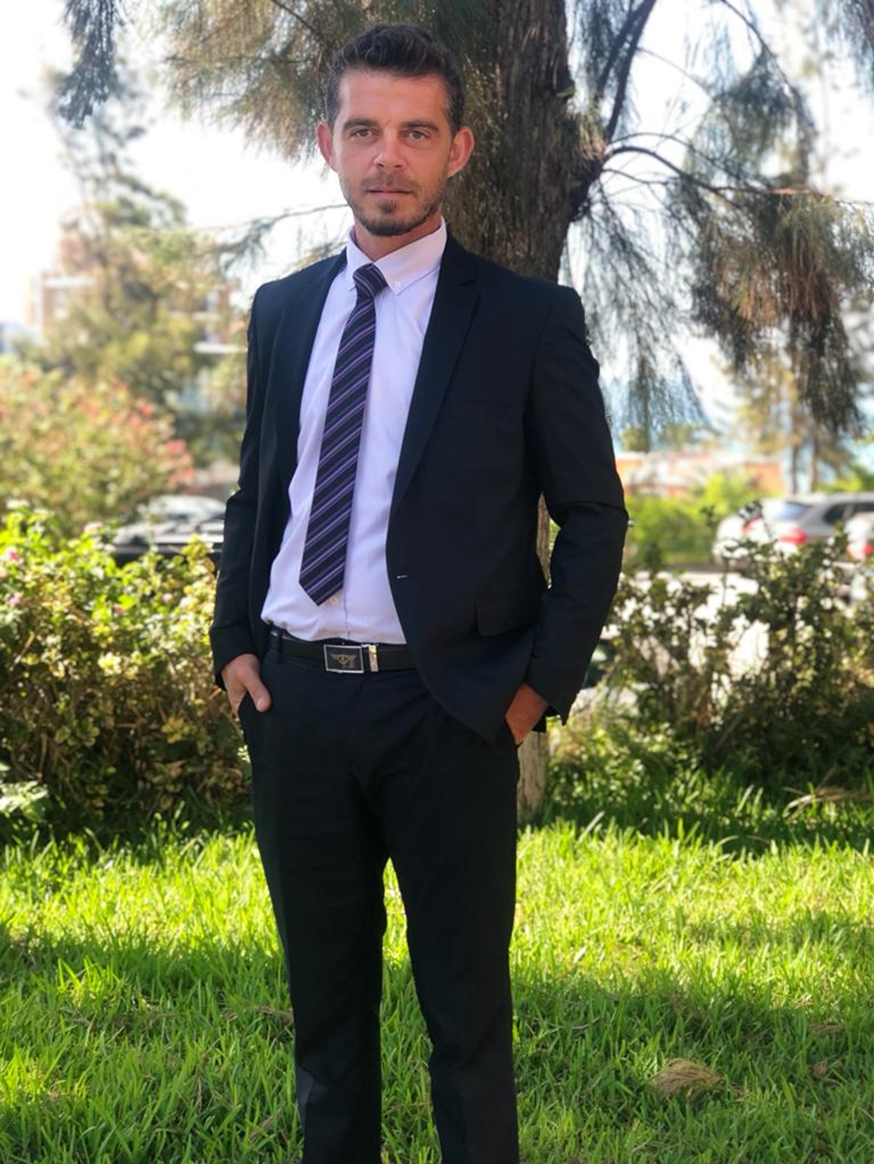
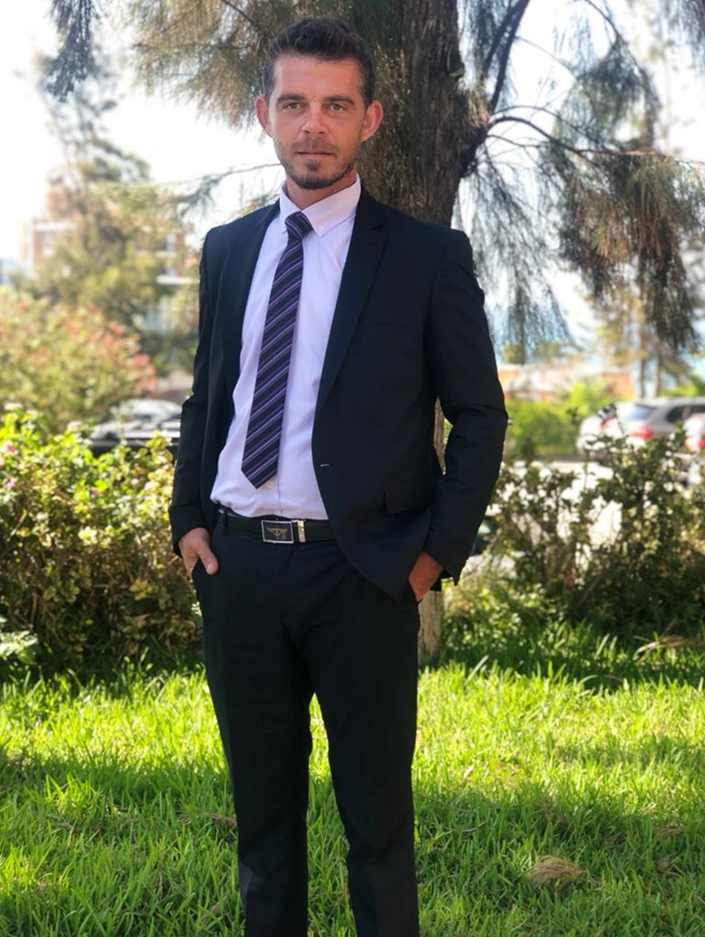
edits dont

diff --git a/index.html b/index.html
@@ -171,7 +171,7 @@
 
             <li class="features-item">
               <div class="item-icon">
-                <ion-icon name="shield-checkmark-outline"></ion-icon>
+                <ion-icon name="book-outline"></ion-icon>
               </div>
 
               <div>
@@ -185,7 +185,7 @@
 
             <li class="features-item">
               <div class="item-icon">
-                <ion-icon name="water-outline"></ion-icon>
+                <ion-icon name="flash-outline"></ion-icon>
               </div>
 
               <div>
@@ -199,7 +199,7 @@
 
             <li class="features-item">
               <div class="item-icon">
-                <ion-icon name="leaf-outline"></ion-icon>
+                <ion-icon name="rocket-outline"></ion-icon>
               </div>
 
               <div>
@@ -214,7 +214,7 @@
 
             <li class="features-item">
               <div class="item-icon">
-                <ion-icon name="snow-outline"></ion-icon>
+                <ion-icon name="earth-outline"></ion-icon>
               </div>
 
               <div>
@@ -527,10 +527,7 @@
               </blockquote>
               <blockquote class="testi-text">
                 Working with Global Mosaic opened our eyes to new perspectives on community engagement. Their team brought fresh ideas that resonated with our audience.              </blockquote>
-              <blockquote class="testi-text">
-                Global Mosaic's approach to sustainability and social impact has inspired our own practices. Their passion and dedication to meaningful change are truly contagious              </blockquote>
-              <blockquote class="testi-text">
-                From day one, Global Mosaic exceeded our expectations. Their knowledge of emerging trends and genuine understanding of our needs made all the difference.              </blockquote>
+              
             </div>
 
           </div>
@@ -538,7 +535,7 @@
         </div>
 
         <figure class="testi-banner">
-          <img src="./assets/images/logo.png" width="760" height="646" loading="lazy"
+          <img src="./assets/images/imaggg.png" width="760" height="646" loading="lazy"
             class="img-cover">
         </figure>
 
@@ -585,7 +582,7 @@
               class="gray">
 
             <img src="./assets/images/partner-5-active.png" width="211" height="55" loading="lazy"
-              alt="Poor Fund Organization" class="color">
+              alt=" Fund Organization" class="color">
           </a>
 
         </div>
@@ -759,7 +756,6 @@
             <p>Follow Global Mosaic on social media for our latest news and events.</p>
             <div class="social-links">
                 <a href="#">Facebook</a>
-                <a href="#">Twitter</a>
                 <a href="#">Instagram</a>
                 <a href="#">LinkedIn</a>
             </div>

diff --git a/assets/css/style.css b/assets/css/style.css
@@ -767,7 +767,17 @@ body {
   #PARTNER
 \*-----------------------------------*/
 
-.partner { background-color: var(--baby-powder); }
+:root {
+  --baby-powder: #f8f8f8;
+  --gray-color: #9e9e9e; /* Gray color */
+  --green-color: #4caf50; /* Green */
+  --purple-color: #8e44ad; /* Purple */
+  --cyan-color: #00bcd4; /* Cyan */
+}
+
+.partner {
+  background-color: var(--baby-powder);
+}
 
 .partner .container {
   display: flex;
@@ -777,12 +787,23 @@ body {
   gap: 50px;
 }
 
-.partner-logo .color,
-.partner-logo:is(:hover, :focus) .gray { display: none; }
+.partner-logo .color {
+  display: block; /* Show the colored logo by default */
+  filter: hue-rotate(180deg) brightness(1.2); /* Adjust colors for vibrant effect */
+}
 
-.partner-logo:is(:hover, :focus) .color,
-.partner-logo .gray { display: block; }
+.partner-logo .gray {
+  display: none; /* Hide the gray logo by default */
+  filter: grayscale(100%); /* Ensure the gray logo is fully grayscale */
+}
 
+.partner-logo:is(:hover, :focus) .color {
+  display: none; /* Hide the colored logo on hover/focus */
+}
+
+.partner-logo:is(:hover, :focus) .gray {
+  display: block; /* Show the gray logo on hover/focus */
+}
 
 
 
@@ -1195,7 +1216,7 @@ body {
    */
 
   .hero {
-    background-image: url("../images/hero1.jpg");
+    background-image: url("../images/hero12.png");
     background-repeat: no-repeat;
     background-size: cover;
     background-position: left;
